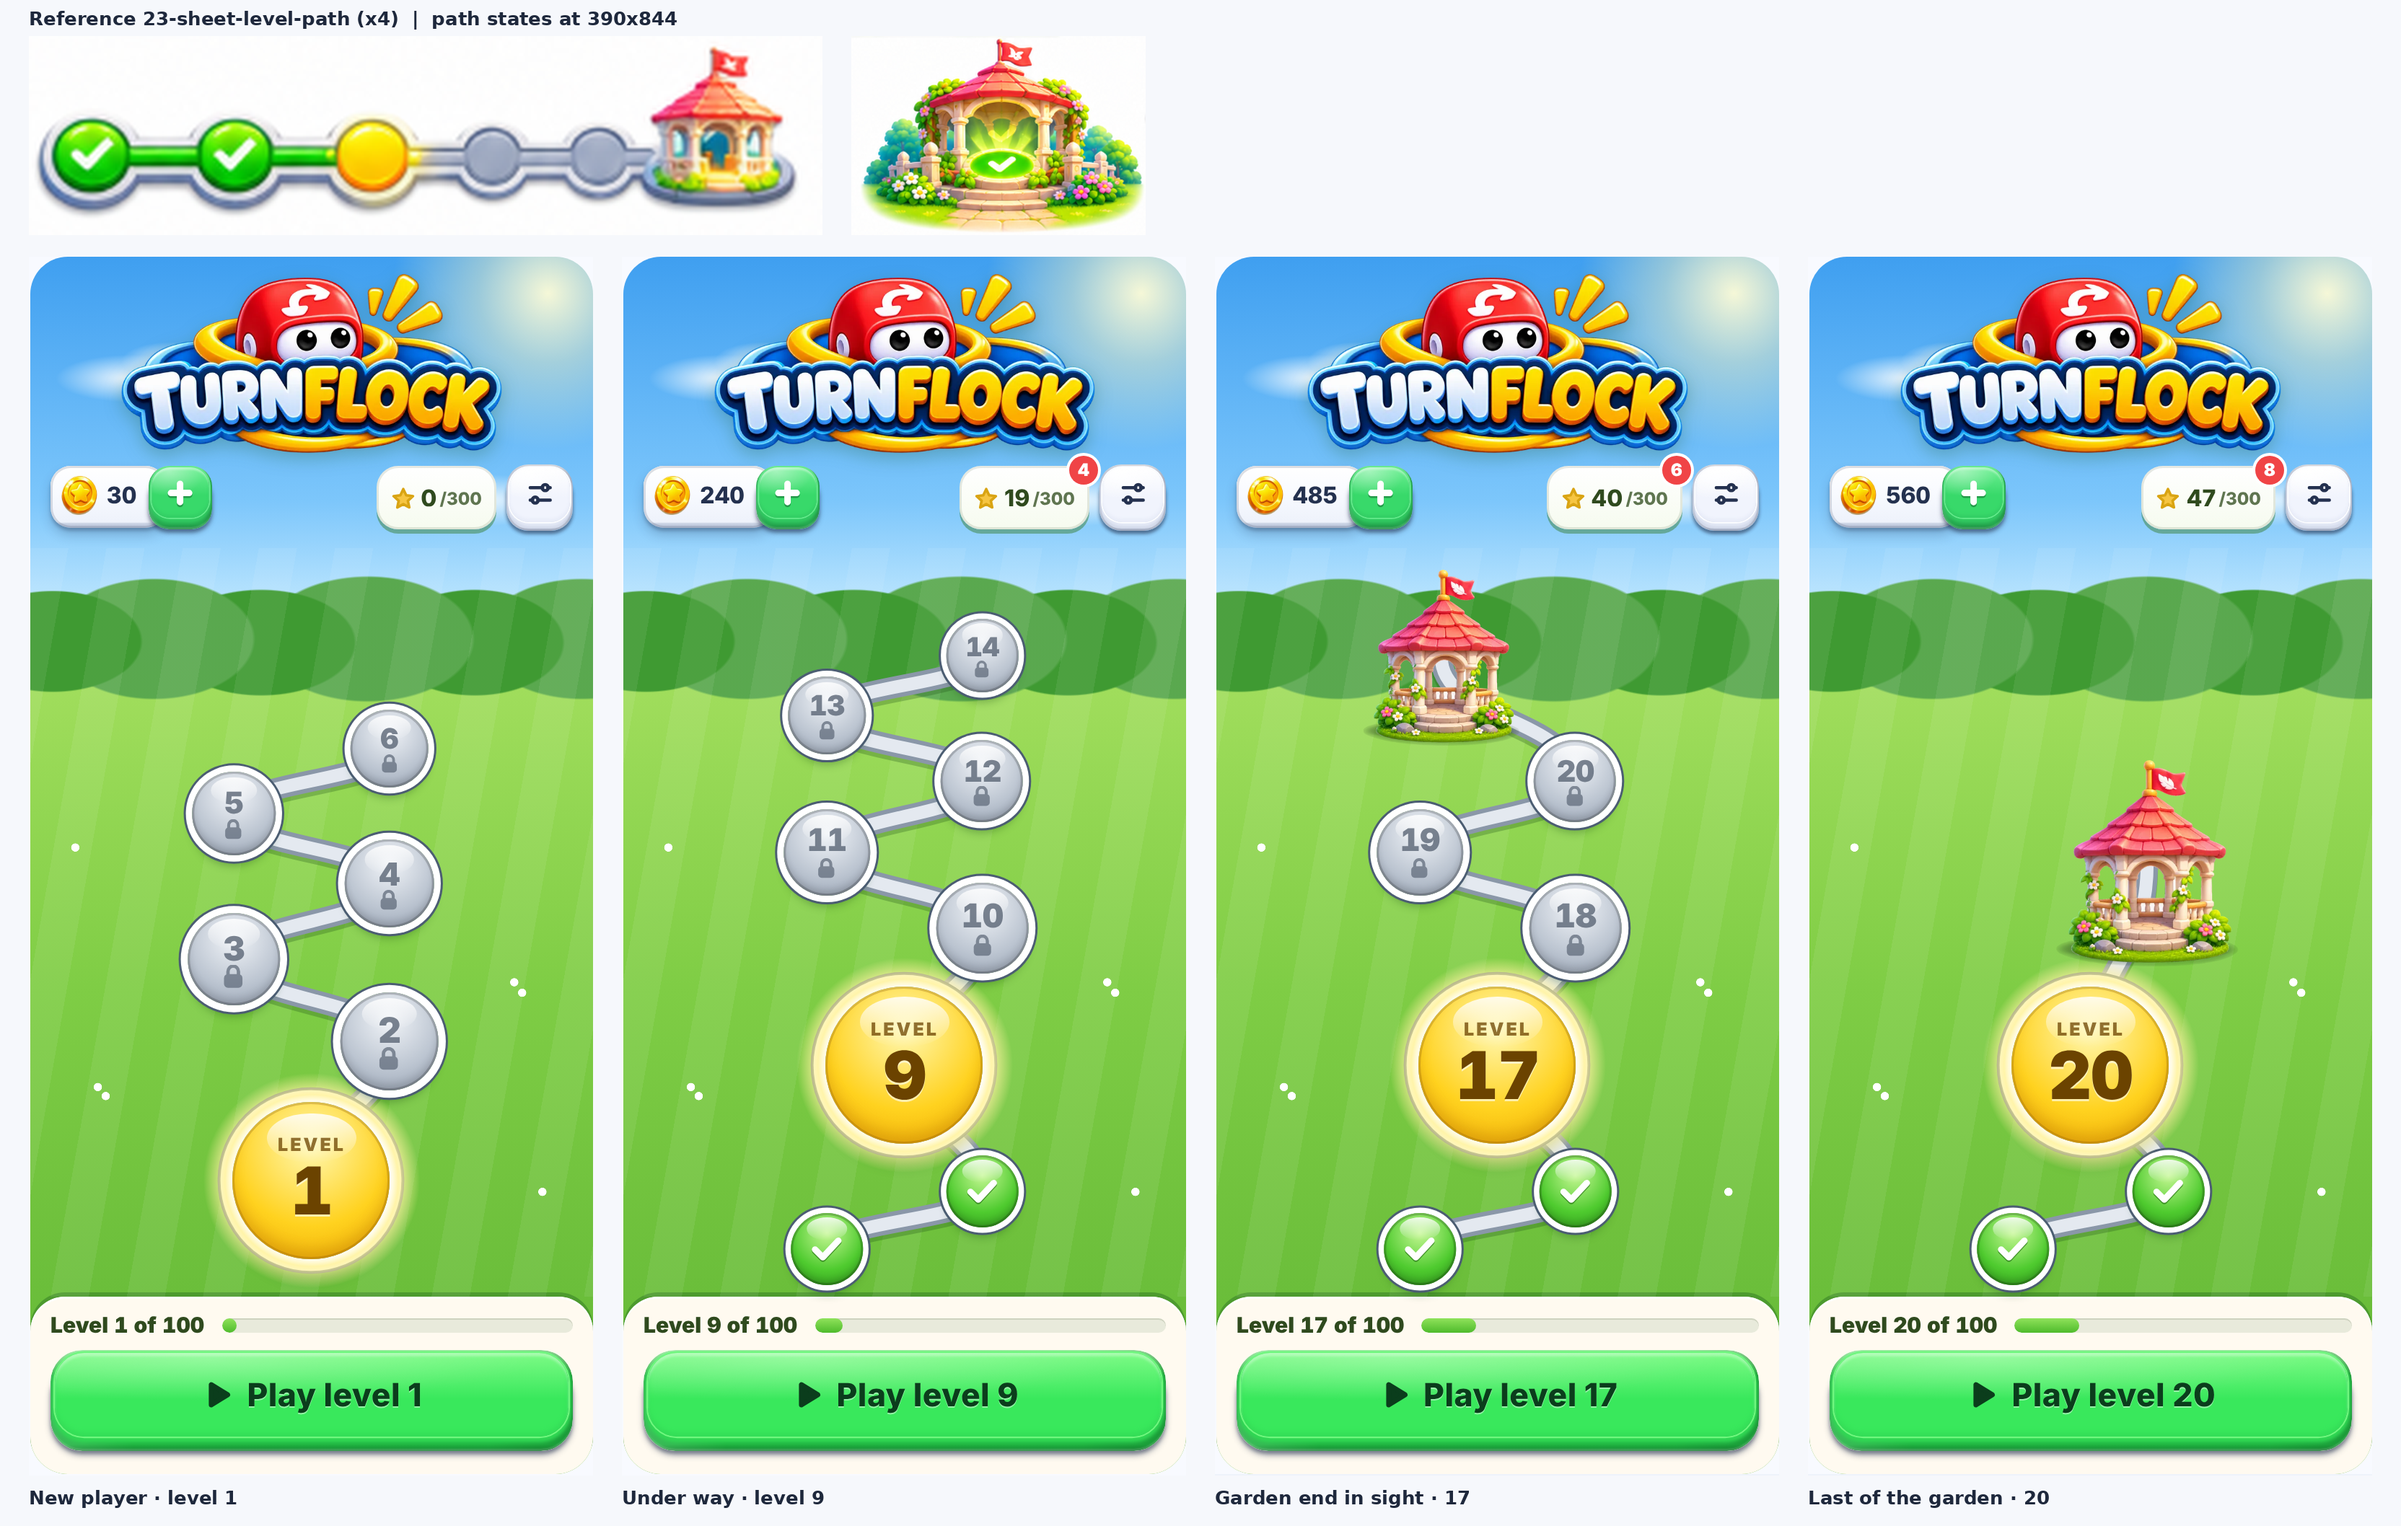
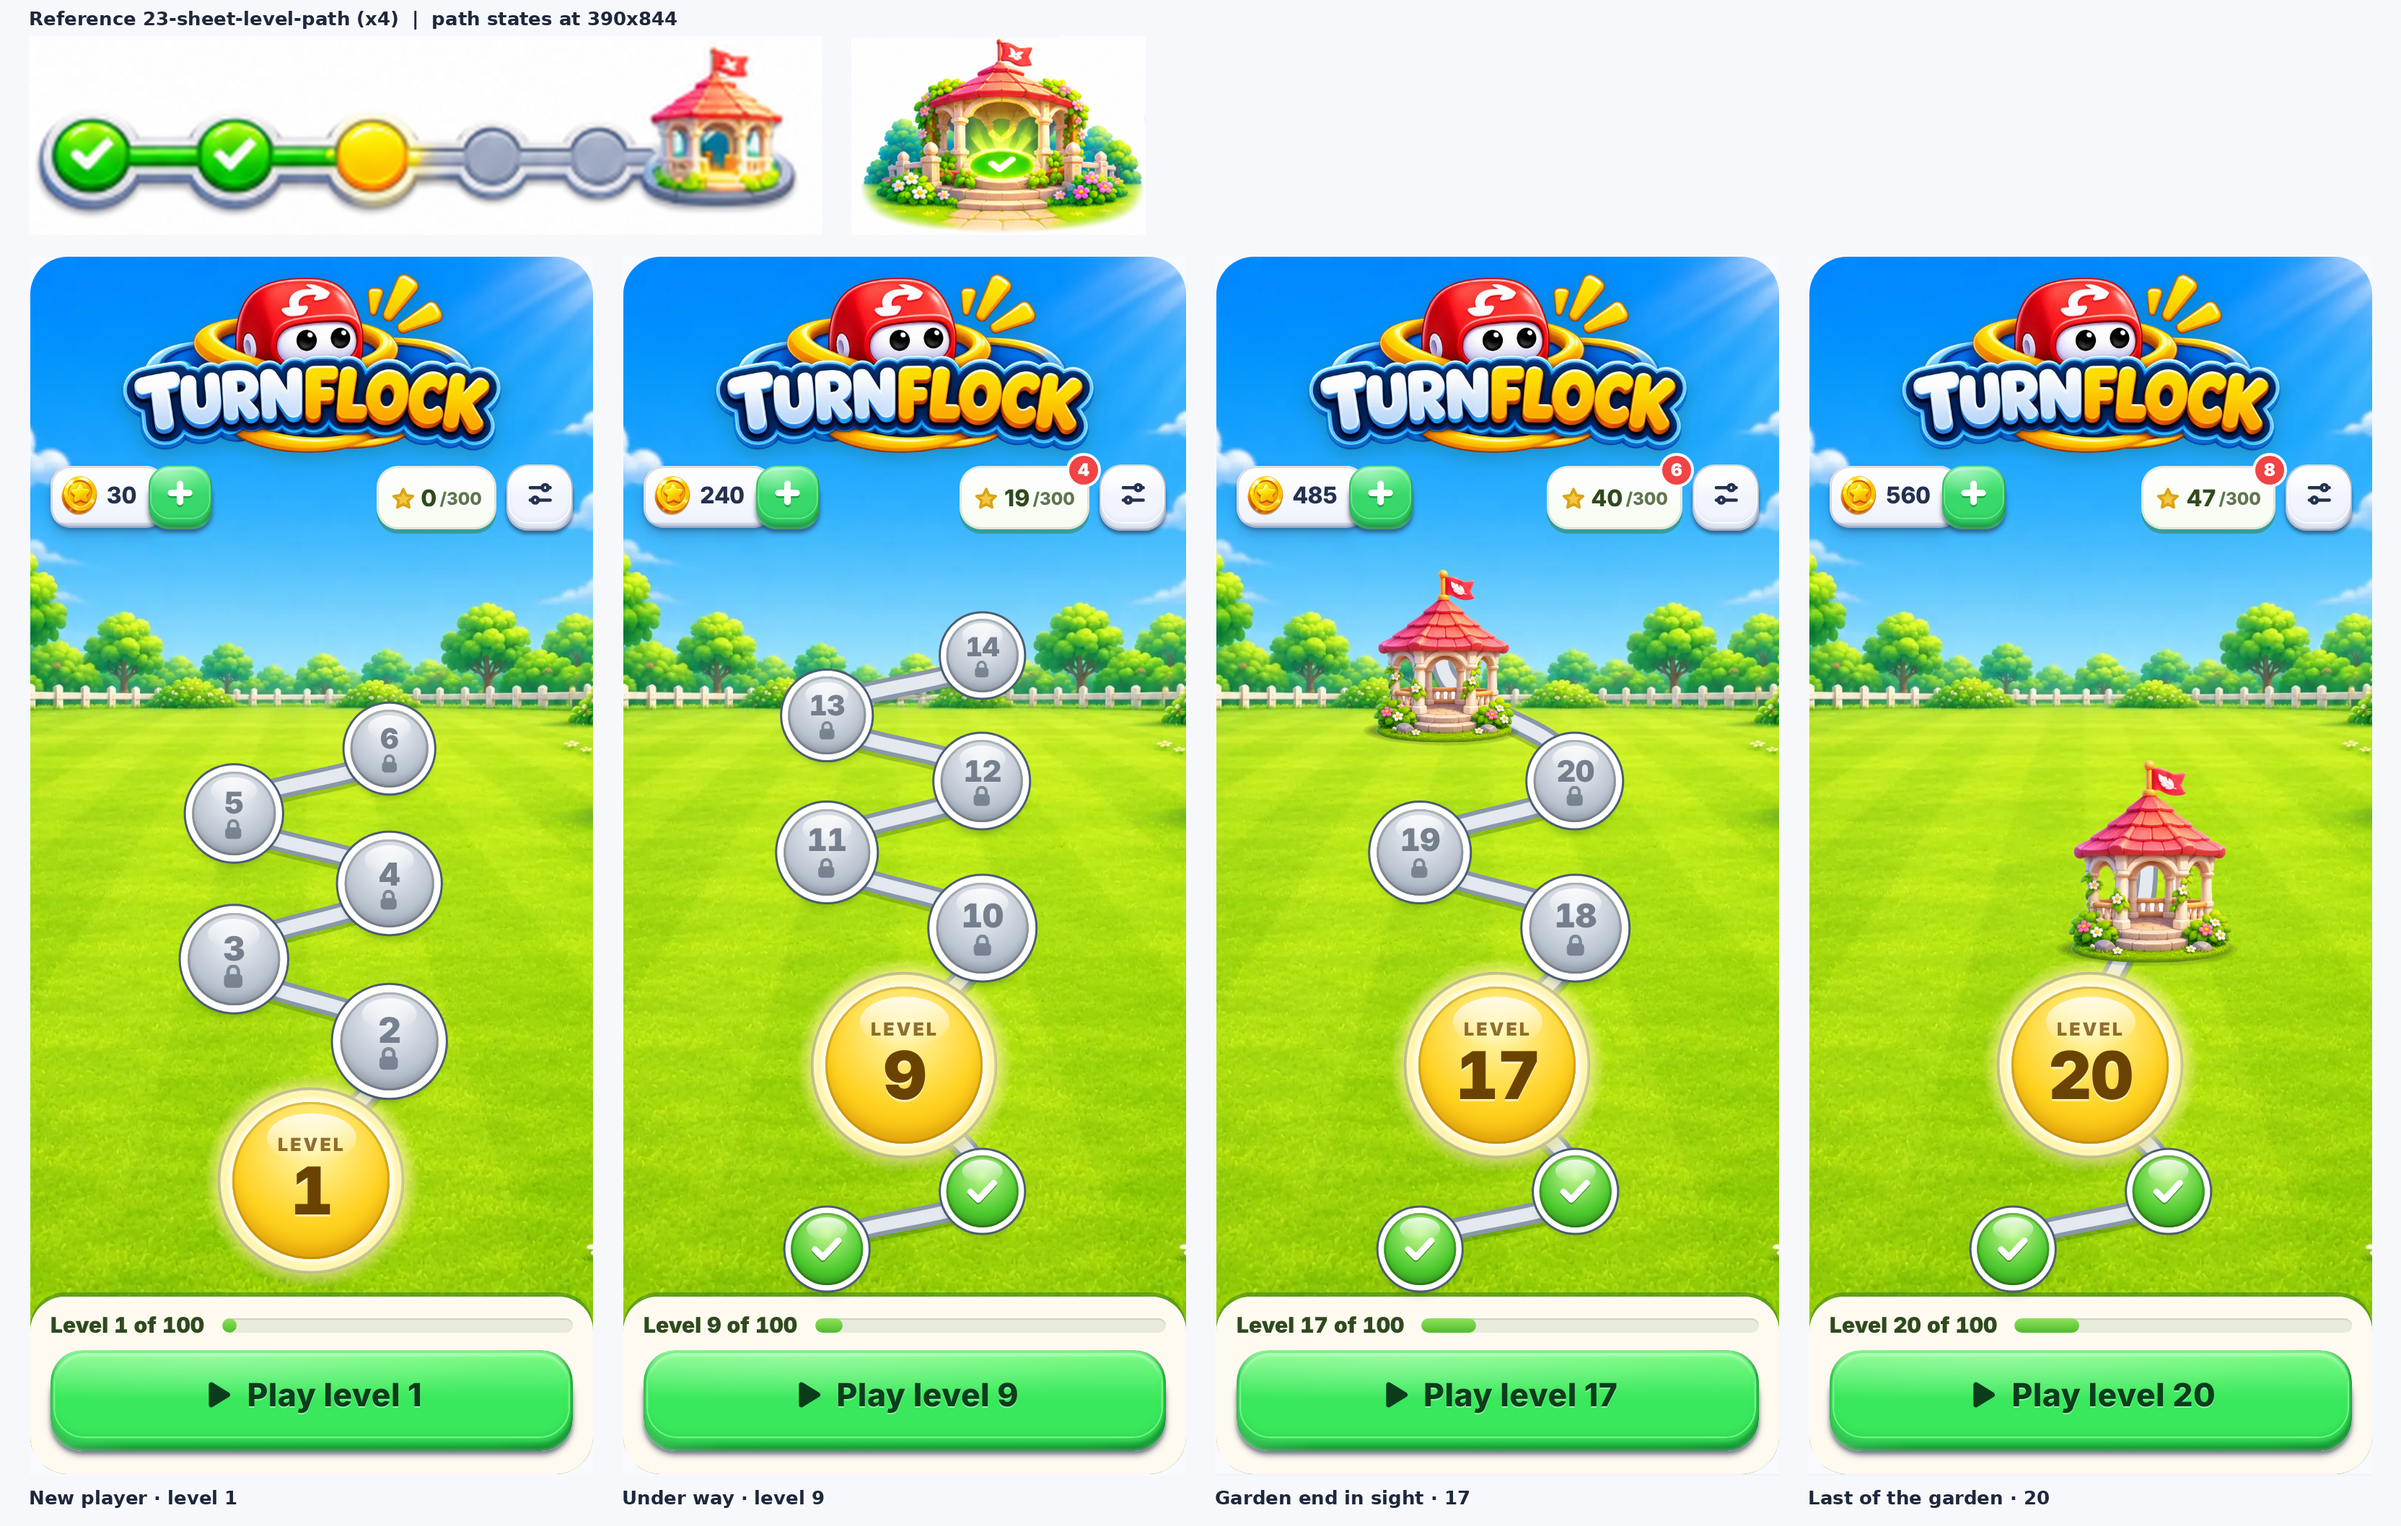
feat: owner's level-path backdrop behind the garden level screen
The owner's 25-backdrop-level-path (sky, fence and hedge on the horizon,
a calm lawn for the path, flowers at the edges) replaces the drawn garden
colours on the garden level screen; the colours stay underneath while the
picture loads. WebP quality 76, 97 KB.

Design: design/themes/garden-levels.md
Evidence: production/qa/evidence/garden-levels/

Claude-Session: https://claude.ai/code/session_01PBSmYtD4yQrWJLYpdtBXcd

diff --git a/src/ui/themes/garden/tf-levels-garden.css b/src/ui/themes/garden/tf-levels-garden.css
@@ -5,38 +5,17 @@
    end of each garden of 20 levels. Values: data/themes/garden/levels.json (put on the screen by
    applyGardenLevels); the fallbacks below are the same values. Design: design/themes/garden-levels.md. */
 
-/* ---- The screen: a sunny sky over a lawn, a hedge on the horizon. A full backdrop picture, when there is
-   one, comes in through --tg-backdrop (an image layer above these colours). ---- */
+/* ---- The screen: the owner's level-path backdrop (25-backdrop-level-path): sky, fence and hedge on the
+   horizon, a calm lawn in the middle for the path, flowers at the edges. It covers the screen, anchored a
+   little above the middle so the horizon stays under the header on phones and tablets alike. Underneath,
+   the same sky and lawn in plain colours, for the moment before the picture is decoded. Another picture
+   can take its place through --tg-backdrop (a full background value, e.g. url(...)). ---- */
 [data-theme="garden"] .tf-levels-phone {
   color: var(--tg-ink, #2f4a1e);
   background:
-    var(--tg-backdrop, none) center / cover no-repeat,
-    /* sun, top right */
-    radial-gradient(150px 150px at 92% 3%, rgba(255, 252, 214, .95) 0, rgba(255, 246, 190, .45) 32%, rgba(255, 246, 190, 0) 72%),
-    /* clouds */
-    radial-gradient(70px 22px at 18% 10%, rgba(255, 255, 255, .95), rgba(255, 255, 255, 0) 75%),
-    radial-gradient(46px 18px at 25% 8.6%, rgba(255, 255, 255, .9), rgba(255, 255, 255, 0) 75%),
-    radial-gradient(90px 24px at 80% 20%, rgba(255, 255, 255, .85), rgba(255, 255, 255, 0) 75%),
-    /* the hedge on the horizon: overlapping round bushes, sized by the screen so it never breaks up */
-    radial-gradient(16% 4.2% at 4% 31.6%, var(--tg-hedge, #3f9a32) 97%, transparent 100%),
-    radial-gradient(18% 5% at 22% 31.4%, color-mix(in srgb, var(--tg-hedge, #3f9a32) 86%, #fff) 97%, transparent 100%),
-    radial-gradient(17% 4.4% at 41% 31.7%, var(--tg-hedge, #3f9a32) 97%, transparent 100%),
-    radial-gradient(19% 5.2% at 60% 31.4%, color-mix(in srgb, var(--tg-hedge, #3f9a32) 86%, #fff) 97%, transparent 100%),
-    radial-gradient(16% 4.4% at 79% 31.7%, var(--tg-hedge, #3f9a32) 97%, transparent 100%),
-    radial-gradient(18% 5% at 98% 31.4%, color-mix(in srgb, var(--tg-hedge, #3f9a32) 86%, #fff) 97%, transparent 100%),
-    /* sky down to the horizon, then the lawn: light at the horizon, deeper near the player */
-    linear-gradient(180deg, var(--tg-sky-0, #3f9ff0) 0, var(--tg-sky-1, #7cc6fb) 20%, var(--tg-sky-2, #cdeeff) 31%,
-      var(--tg-lawn-0, #a6e060) 31%, var(--tg-lawn-1, #7fcd45) 60%, var(--tg-lawn-2, #5fb534) 100%);
-}
-/* The lawn's soft mowing stripes and a few daisies, as a layer of its own so the path stays readable. */
-[data-theme="garden"] .tf-levels-body { position: relative; }
-[data-theme="garden"] .tf-levels-body::before {
-  content: ""; position: absolute; inset: 0; pointer-events: none;
-  background:
-    radial-gradient(3px 3px at 12% 72%, #fff 90%, transparent), radial-gradient(3px 3px at 13.4% 73.2%, #fff 90%, transparent),
-    radial-gradient(3px 3px at 86% 58%, #fff 90%, transparent), radial-gradient(3px 3px at 87.4% 59.4%, #fff 90%, transparent),
-    radial-gradient(3px 3px at 8% 40%, #fff 90%, transparent), radial-gradient(3px 3px at 91% 86%, #fff 90%, transparent),
-    repeating-linear-gradient(100deg, rgba(255, 255, 255, .07) 0 26px, rgba(255, 255, 255, 0) 26px 52px);
+    var(--tg-backdrop, url("./levels-backdrop.webp")) 50% 40% / cover no-repeat,
+    linear-gradient(180deg, var(--tg-sky-0, #3f9ff0) 0, var(--tg-sky-1, #7cc6fb) 22%, var(--tg-sky-2, #cdeeff) 35%,
+      var(--tg-lawn-0, #a6e060) 35%, var(--tg-lawn-1, #7fcd45) 65%, var(--tg-lawn-2, #5fb534) 100%);
 }
 
 /* ---- Header: the logo on the sky, white pills with a leaf-green edge. ---- */

diff --git a/src/parts/gardenLevels.ts b/src/parts/gardenLevels.ts
@@ -121,7 +121,7 @@ export function addGardenLevelCards(sheet: HTMLElement): void {
   };
 
   const states = card('garden-levels', 'Tuinthema · levelscherm (het pad)', 'tuinen van 20 levels · huidig + 5 vooruit · 2 gehaalde levels eronder · prieel aan het eind van een tuin',
-    'Dezelfde HTML en code als het spel (index.html + renderLevels); alleen het thema verschilt. Groen met vinkje = gehaald, geel = nu spelen (de enige knop op het pad), grijs met slot = komt nog. Het prieel sluit elke tuin van 20 levels af en verschijnt zodra het einde in zicht is. Achtergrond: eenvoudige tuinkleur (lucht, haag, gazon); de volledige tuinachtergrond van de achtergrondsessie kan erin via --tg-backdrop.');
+    'Dezelfde HTML en code als het spel (index.html + renderLevels); alleen het thema verschilt. Groen met vinkje = gehaald, geel = nu spelen (de enige knop op het pad), grijs met slot = komt nog. Het prieel sluit elke tuin van 20 levels af en verschijnt zodra het einde in zicht is. Achtergrond: jouw levelpad-achtergrond (25-backdrop-level-path), 97 KB.');
   fig(states, 'Nieuwe speler · level 1', { view: 'path', solved: 0, coins: 30 });
   fig(states, 'Onderweg · level 9', { view: 'path', solved: 8, coins: 240 });
   fig(states, 'Einde tuin in zicht · level 17', { view: 'path', solved: 16, coins: 485 });

diff --git a/design/themes/garden-levels.md b/design/themes/garden-levels.md
@@ -48,11 +48,14 @@ path's height (container units); on 320×568 a locked ball is about 34 px, the c
 
 ## Mood
 
-- **Background:** a simple garden colour — sky with sun and clouds, a hedge on the horizon,
-  a striped lawn. The full garden backdrop is another session's; it comes in through
-  `--tg-backdrop` (an image layer on top of these colours). In the game, `style.css` makes
-  `#map` transparent so the game's own backdrop shows; the theme session decides which of the
-  two the garden screen uses.
+- **Background:** the owner's level-path backdrop (`design/reference/turnflock/garden/25-backdrop-level-path.webp`,
+  956×1645), stored as `src/ui/themes/garden/levels-backdrop.webp` (WebP quality 76, 97 KB, about 130 KB
+  inlined). It covers the screen, anchored at 40% height so the fence stays just under the header; on a
+  phone the birdhouse and the flower arch at the edges are partly cut off, on a tablet they show in full.
+  Under it the same sky and lawn in plain colours, for the moment before it is decoded. `--tg-backdrop`
+  can replace it. In the game, `style.css` makes `#map` transparent so the game's own backdrop shows;
+  the theme session must let this picture show on the garden level screen instead (for example
+  `[data-theme="garden"] #map.tf-levels-phone { background: … }` with the same value).
 - **Logo:** the owner's logo, unchanged (it may not be recoloured), with a soft green shadow.
   It still shows the red robot; a chick logo is the owner's call.
 - **Header and dock:** white pills with a leaf-green edge; a warm cream dock.
@@ -63,6 +66,7 @@ path's height (container units); on 320×568 a locked ball is about 34 px, the c
 |---|---|
 | `src/ui/themes/garden/tf-levels-garden.css` | All garden styles, only under `[data-theme="garden"]` |
 | `src/ui/themes/garden/levels.ts` | `applyGardenLevels(screen)`, `gardenPathModel()` |
+| `src/ui/themes/garden/levels-backdrop.webp` | The level-path backdrop, 956×1645, 97 KB |
 | `src/ui/themes/garden/levels-gazebo.webp` | The gazebo, 360×408, 32 KB (about 43 KB inlined) |
 | `data/themes/garden/levels.json` | Garden size, completed levels shown, colours, gazebo size |
 | `tools/asset-pipeline/build-garden-gazebo.py` | Cuts the gazebo out of `08-gazebo.png` (background and arch openings transparent, ground shadow made see-through; artwork not redrawn or recoloured) |
@@ -73,9 +77,9 @@ path's height (container units); on 320×568 a locked ball is about 34 px, the c
 1. Set `data-theme="garden"` on the root element and import `tf-levels-garden.css`.
 2. Call `applyGardenLevels(el('map'))` once.
 3. In `drawMap`, pass `...gardenPathModel()` to `renderLevels` (adds `chapter: 20, behind: 2`).
-4. Choose the screen's background (garden backdrop, or this file's colours).
+4. Let the level-path backdrop show on `#map` (see Mood).
 
-Cost: 2D only — no triangles or draw calls. One 32 KB picture, about 9 KB of CSS.
+Cost: 2D only — no triangles or draw calls. Two pictures (97 KB + 32 KB, about 175 KB inlined), about 13 KB of CSS (uncompressed, comments included).
 
 ## Known differences from the reference
 
